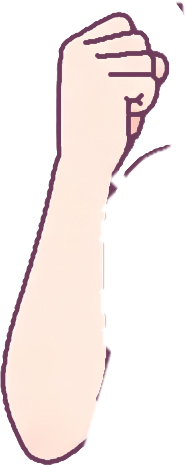
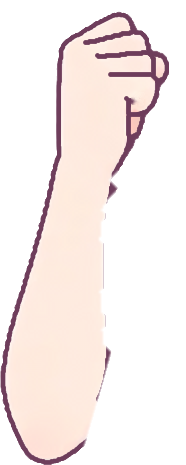
v3 마감: 손질 스크립트(내린 주먹 주름·허리 위 선·엄지 삐침·머리 결 밝은 줄), 검사기 머리카락 예외 제거

Changed region(s): [[0.672, 0.3011, 0.914, 0.3914], [0.6989, 0.1806, 0.7796, 0.2409], [0.9409, 0.0, 0.9946, 0.0301]]

diff --git a/tools/v3/touchup.py b/tools/v3/touchup.py
@@ -1,0 +1,50 @@
+"""조각 마감 손질(그림을 새로 그리지 않고, 생성 그림의 얼룩·떠도는 선만 지움). build_v3.py 다음에 실행.
+좌표는 각 조각 PNG 안의 픽셀(2배 크기)."""
+import sys, os, numpy as np, cv2
+from PIL import Image
+from scipy import ndimage
+HERE=os.path.dirname(os.path.abspath(__file__)); P=(sys.argv[1] if len(sys.argv)>1 else f'{HERE}/out')+'/parts'
+# (조각, 상자) : 상자 안에서 바탕색과 다른 얼룩·짧은 선을 주변 색으로 메움
+ERASE=[
+ ('body_lower',(628,56,666,97)),          # 내린 주먹 손바닥 주름 얼룩
+ ('basic_upper',(300,405,345,427)),('basic_upper',(300,437,316,448)),            # 허리 위 작은 선, 허리선 아래 삐침
+ ('basic_upper_wave',(300,405,345,427)),('basic_upper_wave',(300,437,316,448)),
+ ('hand_r',(132,88,150,104)),('hand_r',(133,92,147,107)),
+ ('body_lower',(649,90,662,103)),('body_lower',(640,82,652,93)),
+ ('basic_upper',(303,420,320,428)),('basic_upper',(303,437,314,444)),
+ ('basic_upper_wave',(303,420,320,428)),('basic_upper_wave',(303,437,314,444)),             # 엄지 아래 삐침
+]
+def load(n): return np.array(Image.open(f'{P}/{n}.png').convert('RGBA'))
+def save(n,a): Image.fromarray(a).save(f'{P}/{n}.png')
+def erase(a,box):
+    x0,y0,x1,y1=box; c=a[y0:y1,x0:x1,:3].astype(int); A=a[y0:y1,x0:x1,3]>128
+    lum=c.sum(-1); fill=np.median(c[A&(lum>=np.percentile(lum[A],60))],0)
+    m=np.zeros(a.shape[:2],np.uint8); m[y0:y1,x0:x1]=((np.abs(c-fill).sum(-1)>40)&A)*255
+    m=cv2.dilate(m,np.ones((3,3),np.uint8))
+    a[...,:3]=cv2.inpaint(np.ascontiguousarray(a[...,:3]),m,4,cv2.INPAINT_TELEA); return a
+def main_only(a):
+    A=a[...,3]>40; lb,n=ndimage.label(A)
+    if n>1:
+        sz=ndimage.sum(A,lb,range(1,n+1)); keep=lb==(np.argmax(sz)+1); a[...,3]=np.where(keep,a[...,3],0)
+    return a
+def soften_ridges(a, it=3):
+    """머리카락 결 사이 1~2px 밝은 줄(양옆보다 18 넘게 밝음)을 양옆 색으로 낮춤"""
+    for _ in range(it):
+        g=a[...,:3].astype(np.float32); L=g.mean(-1); A=a[...,3]>128
+        out=g.copy(); hit=np.zeros(L.shape,bool)
+        for ax in (0,1):
+            p,q=np.roll(L,2,ax),np.roll(L,-2,ax); r=(L-np.maximum(p,q)>12)&A
+            nb=(np.roll(g,2,ax)+np.roll(g,-2,ax))/2; out[r]=nb[r]; hit|=r
+        a[...,:3]=np.clip(out,0,255).astype(np.uint8)
+        if not hit.any(): break
+    return a
+if __name__=='__main__':
+    by={}
+    for n,b in ERASE: by.setdefault(n,[]).append(b)
+    for n,bs in by.items():
+        a=load(n)
+        for b in bs: a=erase(a,b)
+        save(n,a)
+    save('hand_r',main_only(load('hand_r')))
+    for n in ('hair_back','hair_back_wave','hair_front'): save(n,soften_ridges(load(n)))
+    print('touchup ok')

diff --git a/tools/v3/check_frames.py b/tools/v3/check_frames.py
@@ -33,15 +33,12 @@ def holes(A, im=None):
     hr=hairish(im) if im is not None else None
     for i,v in enumerate(mx):
         if v>3: continue
-        if hr is not None:
-            ring=ndimage.binary_dilation(lb==i+1,iterations=3)&~h
-            if hr[ring].mean()>0.4: continue
         keep.append(i+1)
     return np.isin(lb,keep)
 def seams(im,A):
     g=im[...,:3].mean(-1); inner=ndimage.binary_erosion(A,iterations=4)
     hx=(g-np.maximum(np.roll(g,2,1),np.roll(g,-2,1))>18); hy=(g-np.maximum(np.roll(g,2,0),np.roll(g,-2,0))>18)
-    return (hx|hy)&inner&~ndimage.binary_dilation(hairish(im),iterations=4)   # 머리카락 결 사이 밝은 줄은 그림(이음새 아님)
+    return (hx|hy)&inner
 def new_seams(s, base):
     """쉬는 자세에 없던 밝은 줄(12px 넘게 이어짐) 수"""
     s=s&~ndimage.binary_dilation(base,iterations=3); lb,n=ndimage.label(s); sz=ndimage.sum(s,lb,range(1,n+1)) if n else []
